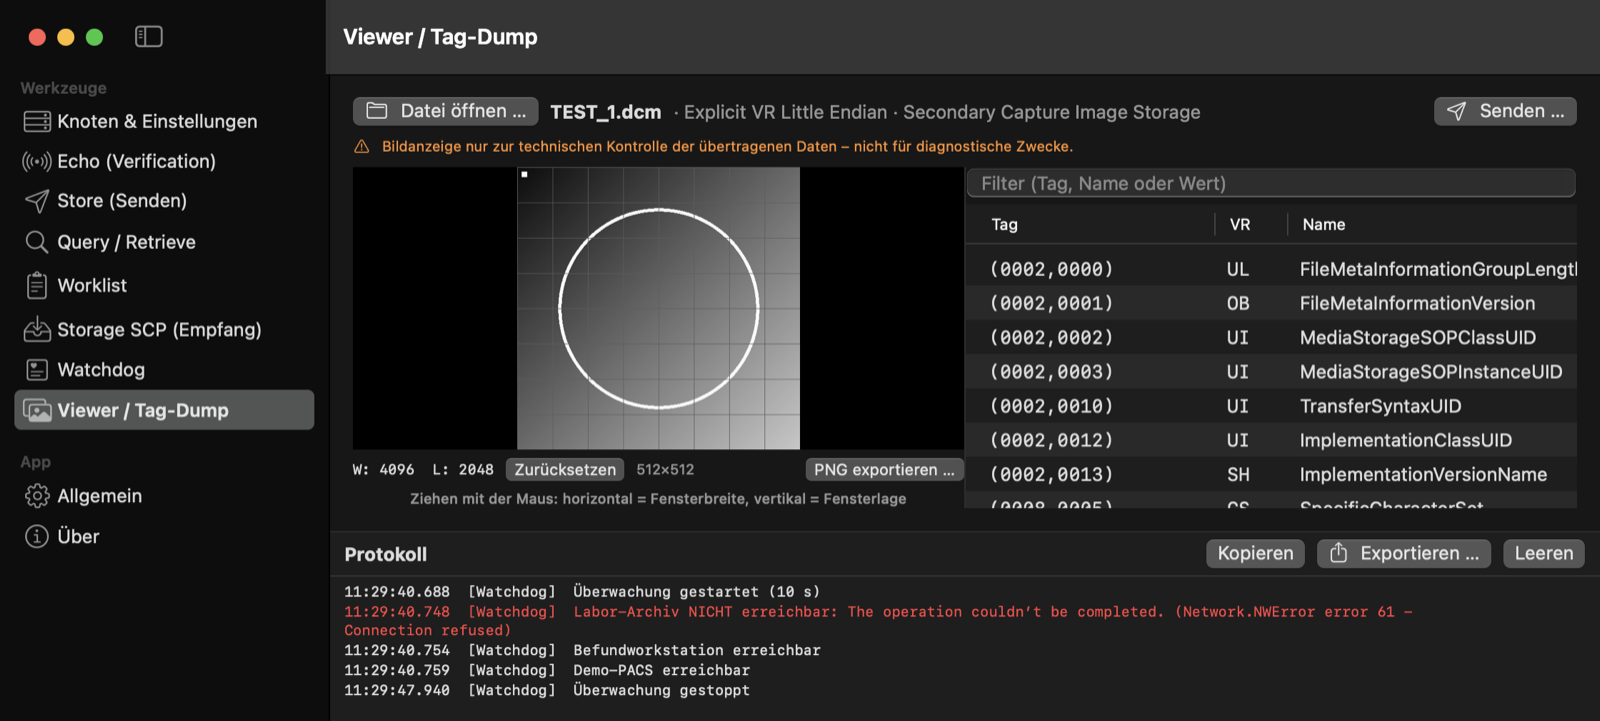
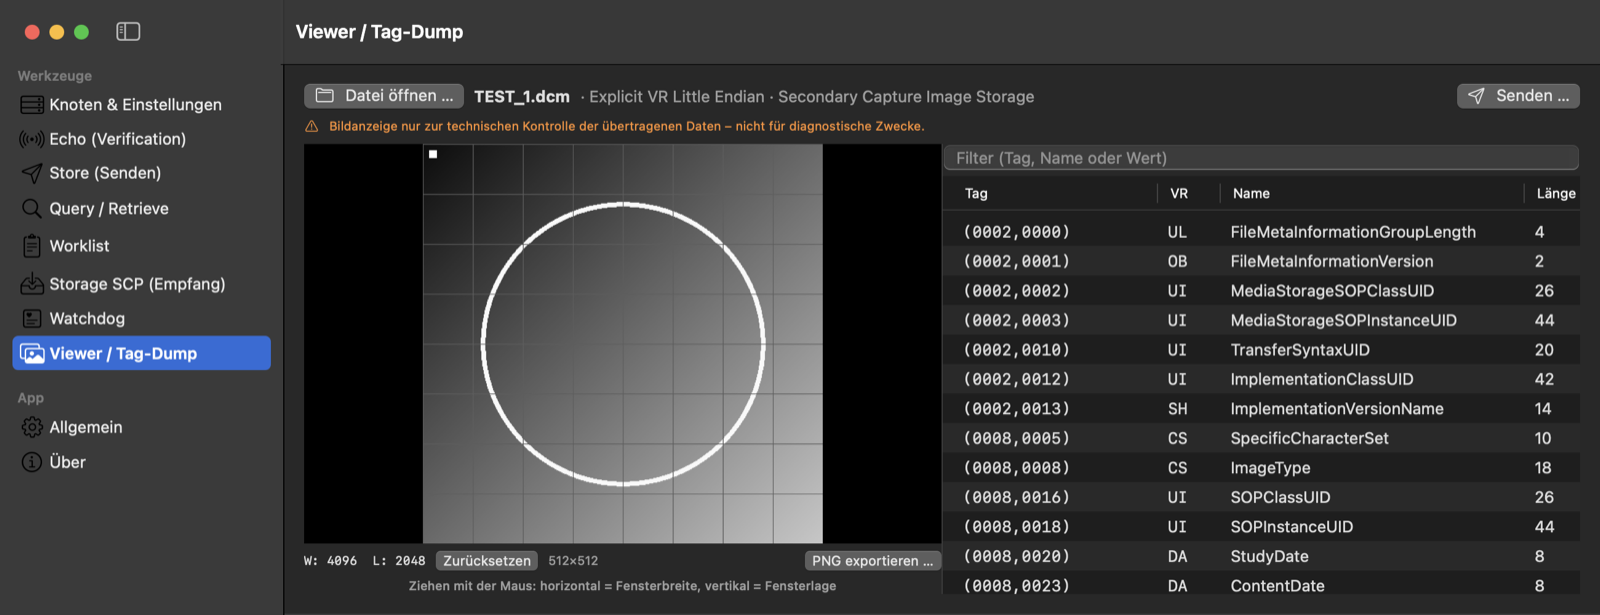
Website: four screenshots (Store, Worklist, Watchdog, Viewer) in macOS dark mode
Snapshot hook can now capture the Store and Worklist views, choose the
theme and appearance, and keeps the Watchdog running until captured.
Worklist entries in the screenshot are made-up demo data.

diff --git a/Sources/DICOMTestTool/SnapshotHook.swift b/Sources/DICOMTestTool/SnapshotHook.swift
@@ -1,45 +1,118 @@
 import AppKit
 import SwiftUI
+import DicomCore
 
 /// Test hook for website screenshots: renders the main window into PNG files without needing
 /// screen-recording permission. Only active when DICOMTESTTOOL_SNAPSHOT=<output folder> is set.
-/// Optional DICOMTESTTOOL_SNAPSHOT_FILE=<DICOM file> is opened in the viewer.
+/// DICOMTESTTOOL_SNAPSHOT_SHOTS lists the shots (default: watchdog,viewer; also store, worklist).
+/// DICOMTESTTOOL_SNAPSHOT_FILE=<DICOM file> is opened in the viewer.
+/// Worklist entries are fictitious demo data, injected directly into the table.
 @MainActor
 enum SnapshotHook {
+    static let storeSend = Notification.Name("SnapshotHook.storeSend")
+    static let worklistRows = Notification.Name("SnapshotHook.worklistRows")
+
     static func runIfRequested(_ state: AppState) {
         let env = ProcessInfo.processInfo.environment
         guard let dir = env["DICOMTESTTOOL_SNAPSHOT"] else { return }
         let out = URL(fileURLWithPath: dir, isDirectory: true)
         let file = env["DICOMTESTTOOL_SNAPSHOT_FILE"].map { URL(fileURLWithPath: $0) }
+        let shots = (env["DICOMTESTTOOL_SNAPSHOT_SHOTS"] ?? "watchdog,viewer").split(separator: ",").map(String.init)
         Task { @MainActor in
             try? await Task.sleep(for: .seconds(2))
-            UserDefaults.standard.set(AppTheme.standard.rawValue, forKey: AppTheme.storageKey)
-            AppTheme.standard.applyToApp()
-            NSApp.appearance = NSAppearance(named: .aqua)
-            mainWindow?.appearance = NSAppearance(named: .aqua)
+            let theme = AppTheme(rawValue: env["DICOMTESTTOOL_SNAPSHOT_THEME"] ?? "") ?? .clinicalDark
+            UserDefaults.standard.set(theme.rawValue, forKey: AppTheme.storageKey)
+            try? await Task.sleep(for: .milliseconds(500))
+            // Standard follows the system; DICOMTESTTOOL_SNAPSHOT_APPEARANCE=light|dark forces one look.
+            let dark = theme == .clinicalDark || env["DICOMTESTTOOL_SNAPSHOT_APPEARANCE"] != "light"
+            NSApp.appearance = NSAppearance(named: dark ? .darkAqua : .aqua)
             state.notificationsEnabled = false
-            if let w = mainWindow { w.setContentSize(NSSize(width: 1120, height: 700)); w.center() }
-            state.log.removeAll()
-            state.watchNodeIDs = Set(state.nodes.map(\.id))
-            state.watchInterval = 10
-            state.section = .watchdog
-            state.startWatchdog()
-            try? await Task.sleep(for: .seconds(6))
-            state.log.removeAll { $0.text.contains("Mitteilung") }
-            try? await Task.sleep(for: .seconds(1))
-            capture(out.appendingPathComponent("watchdog.png"))
-
-            state.stopWatchdog()
-            UserDefaults.standard.set(AppTheme.clinicalDark.rawValue, forKey: AppTheme.storageKey)
-            AppTheme.clinicalDark.applyToApp()
-            mainWindow?.appearance = NSAppearance(named: .darkAqua)
-            state.section = .viewer
-            try? await Task.sleep(for: .seconds(1))
-            if let file { state.viewerURL = file }
-            try? await Task.sleep(for: .seconds(3))
-            capture(out.appendingPathComponent("viewer.png"))
+            if let w = mainWindow, let screen = w.screen?.visibleFrame {
+                let size = NSSize(width: min(1300, screen.width), height: min(900, screen.height))
+                w.setFrame(NSRect(x: screen.midX - size.width / 2, y: screen.midY - size.height / 2, width: size.width, height: size.height), display: true)
+            }
+            for shot in shots {
+                state.log.removeAll()
+                switch shot {
+                case "watchdog": await watchdog(state)
+                case "viewer": await viewer(state, file: file)
+                case "store": await store(state)
+                case "worklist": await worklist(state)
+                default: continue
+                }
+                state.log.removeAll { $0.text.contains("Mitteilung") }
+                try? await Task.sleep(for: .seconds(1))
+                capture(out.appendingPathComponent("\(shot).png"))
+                if state.watchRunning { state.stopWatchdog() }
+            }
             NSApp.terminate(nil)
         }
+    }
+
+    private static func watchdog(_ state: AppState) async {
+        state.watchNodeIDs = Set(state.nodes.map(\.id))
+        state.watchInterval = 10
+        state.section = .watchdog
+        state.startWatchdog()
+        try? await Task.sleep(for: .seconds(5))
+    }
+
+    private static func viewer(_ state: AppState, file: URL?) async {
+        state.section = .viewer
+        try? await Task.sleep(for: .seconds(1))
+        if let file { state.viewerURL = file }
+        try? await Task.sleep(for: .seconds(2))
+    }
+
+    private static func store(_ state: AppState) async {
+        var o = TestImageOptions()
+        o.patientName = "MUSTERMANN^ERIKA"
+        o.patientID = "DEMO0042"
+        o.birthDate = "19820314"
+        o.sex = "F"
+        o.accessionNumber = "ACC260042"
+        o.count = 8
+        let dir = URL(fileURLWithPath: "/tmp/DICOM-Testbilder", isDirectory: true)
+        try? FileManager.default.removeItem(at: dir)
+        if let urls = try? TestImageGenerator.generate(o, into: dir) {
+            state.append("Store", "\(urls.count) Testbild(er) erzeugt")
+            state.storeQueue = urls
+        }
+        state.selectedNodeID = state.nodes.first?.id
+        state.section = .store
+        try? await Task.sleep(for: .seconds(1))
+        NotificationCenter.default.post(name: storeSend, object: nil)
+        try? await Task.sleep(for: .seconds(4))
+    }
+
+    private static func worklist(_ state: AppState) async {
+        state.selectedNodeID = state.nodes.first { $0.name.contains("RIS") }?.id ?? state.nodes.first?.id
+        state.section = .worklist
+        try? await Task.sleep(for: .seconds(1))
+        let f = DateFormatter()
+        f.locale = Locale(identifier: "en_US_POSIX")
+        f.dateFormat = "yyyyMMdd"
+        let today = f.string(from: Date())
+        let entries: [[String]] = [
+            ["MUSTERMANN^ERIKA", "DEMO0042", "19820314", "F", "ACC260042", "Thorax p.a. und seitlich", "CR", "080000", "CR_RAUM1"],
+            ["BEISPIEL^JONAS", "DEMO0043", "19750921", "M", "ACC260043", "Kniegelenk links in 2 Ebenen", "CR", "083000", "CR_RAUM1"],
+            ["TESTFALL^LENA", "DEMO0044", "19910602", "F", "ACC260044", "CT Schädel nativ", "CT", "090000", "CT_SCANNER"],
+            ["PROBE^MAX", "DEMO0045", "19680117", "M", "ACC260045", "MRT LWS", "MR", "094500", "MR_1_5T"],
+            ["MUSTERFRAU^ANNA", "DEMO0046", "20010830", "F", "ACC260046", "Sonographie Abdomen", "US", "103000", "US_RAUM3"],
+            ["DEMO^PAUL", "DEMO0047", "19590405", "M", "ACC260047", "CT Thorax mit KM", "CT", "111500", "CT_SCANNER"],
+        ]
+        let datasets: [DataSet] = entries.map { e in
+            var ds = DataSet()
+            ds.set(.patientName, e[0]); ds.set(.patientID, e[1]); ds.set(.patientBirthDate, e[2]); ds.set(.patientSex, e[3])
+            ds.set(.accessionNumber, e[4]); ds.set(.requestedProcedureDescription, e[5])
+            var sps = DataSet()
+            sps.set(.modality, e[6]); sps.set(.scheduledProcedureStepStartDate, today); sps.set(.scheduledProcedureStepStartTime, e[7])
+            sps.set(.scheduledStationAETitle, e[8])
+            ds.setSequence(.scheduledProcedureStepSequence, [sps])
+            return ds
+        }
+        NotificationCenter.default.post(name: worklistRows, object: datasets)
+        try? await Task.sleep(for: .seconds(1))
     }
 
     private static var mainWindow: NSWindow? {

diff --git a/docs/de/index.html b/docs/de/index.html
@@ -107,14 +107,22 @@
     <section id="screenshots">
       <div class="wrap">
         <h2>So sieht die App aus</h2>
-        <p class="sub">Aufnahmen mit Demo-Knoten und einem generierten Testbild, ohne echte Patientendaten.</p>
+        <p class="sub">Aufnahmen mit Demo-Knoten, generierten Testbildern und erfundenen Worklist-Einträgen – ohne echte Patientendaten.</p>
         <div class="shots">
           <figure style="margin:0">
-            <img src="../screenshots/watchdog.png" width="1600" height="721" loading="lazy" style="display:block;max-width:100%;height:auto;margin:0 auto" alt="Watchdog-Ansicht: zwei Knoten erreichbar, ein Knoten mit Ausfall, darunter das Protokoll">
+            <img src="../screenshots/store.png?v=2" width="1600" height="935" loading="lazy" style="display:block;max-width:100%;height:auto;margin:0 auto" alt="C-Store-Ansicht: acht Testbilder erfolgreich an ein Demo-PACS gesendet, darunter das Protokoll">
+            <figcaption><strong>Store:</strong> Dateien, Ordner oder erzeugte Testbilder senden – mit Status pro Datei und vollständigem Protokoll.</figcaption>
+          </figure>
+          <figure style="margin:0">
+            <img src="../screenshots/worklist.png?v=2" width="1600" height="615" loading="lazy" style="display:block;max-width:100%;height:auto;margin:0 auto" alt="Modality-Worklist-Ansicht mit sechs geplanten Demo-Untersuchungen">
+            <figcaption><strong>Worklist:</strong> geplante Untersuchungen abfragen, wie es eine Modalität tun würde (Demo-Einträge).</figcaption>
+          </figure>
+          <figure style="margin:0">
+            <img src="../screenshots/watchdog.png?v=2" width="1600" height="769" loading="lazy" style="display:block;max-width:100%;height:auto;margin:0 auto" alt="Watchdog-Ansicht: zwei Knoten erreichbar, zwei Knoten mit Ausfall, darunter das Protokoll">
             <figcaption><strong>Watchdog:</strong> Knoten werden laufend per C-ECHO geprüft, Ausfälle sofort sichtbar.</figcaption>
           </figure>
           <figure style="margin:0">
-            <img src="../screenshots/viewer.png" width="1600" height="721" loading="lazy" style="display:block;max-width:100%;height:auto;margin:0 auto" alt="Viewer / Tag-Dump mit Testbild und Tag-Liste im dunklen Farbschema">
+            <img src="../screenshots/viewer.png?v=2" width="1600" height="615" loading="lazy" style="display:block;max-width:100%;height:auto;margin:0 auto" alt="Viewer / Tag-Dump mit Testbild und Tag-Liste">
             <figcaption><strong>Viewer / Tag-Dump:</strong> Bild mit Fensterung und alle Tags – nur zur technischen Kontrolle.</figcaption>
           </figure>
         </div>

diff --git a/docs/index.html b/docs/index.html
@@ -106,14 +106,22 @@
     <section id="screenshots">
       <div class="wrap">
         <h2>What it looks like</h2>
-        <p class="sub">Captured with demo nodes and a generated test image – no real patient data.</p>
+        <p class="sub">Captured with demo nodes, generated test images and made-up worklist entries – no real patient data.</p>
         <div class="shots">
           <figure style="margin:0">
-            <img src="screenshots/watchdog.png" width="1600" height="721" loading="lazy" style="display:block;max-width:100%;height:auto;margin:0 auto" alt="Watchdog view: two nodes reachable, one node down, protocol log below">
+            <img src="screenshots/store.png?v=2" width="1600" height="935" loading="lazy" style="display:block;max-width:100%;height:auto;margin:0 auto" alt="C-STORE view: eight test images sent successfully to a demo PACS, with the protocol log below">
+            <figcaption><strong>Store:</strong> send files, folders or generated test images – with a status per file and a full protocol log.</figcaption>
+          </figure>
+          <figure style="margin:0">
+            <img src="screenshots/worklist.png?v=2" width="1600" height="615" loading="lazy" style="display:block;max-width:100%;height:auto;margin:0 auto" alt="Modality worklist view with six scheduled demo procedures">
+            <figcaption><strong>Worklist:</strong> query scheduled procedures just like a modality would (demo entries).</figcaption>
+          </figure>
+          <figure style="margin:0">
+            <img src="screenshots/watchdog.png?v=2" width="1600" height="769" loading="lazy" style="display:block;max-width:100%;height:auto;margin:0 auto" alt="Watchdog view: two nodes reachable, two nodes down, protocol log below">
             <figcaption><strong>Watchdog:</strong> nodes are checked continuously with C-ECHO, failures show up immediately.</figcaption>
           </figure>
           <figure style="margin:0">
-            <img src="screenshots/viewer.png" width="1600" height="721" loading="lazy" style="display:block;max-width:100%;height:auto;margin:0 auto" alt="Viewer and tag dump with a test image and tag list in the dark colour scheme">
+            <img src="screenshots/viewer.png?v=2" width="1600" height="615" loading="lazy" style="display:block;max-width:100%;height:auto;margin:0 auto" alt="Viewer and tag dump with a test image and tag list">
             <figcaption><strong>Viewer / tag dump:</strong> image with windowing and every tag – for technical checks only.</figcaption>
           </figure>
         </div>

diff --git a/Sources/DICOMTestTool/QueryViews.swift b/Sources/DICOMTestTool/QueryViews.swift
@@ -312,6 +312,9 @@ struct WorklistView: View {
         }
         .padding()
         .sheet(item: $detail) { r in DatasetDumpView(dataset: r.dataset, title: "Worklist-Eintrag") }
+        .onReceive(NotificationCenter.default.publisher(for: SnapshotHook.worklistRows)) { n in // screenshot hook
+            rows = (n.object as? [DataSet] ?? []).map(WorklistRow.init(dataset:))
+        }
     }
 
     private func query() {

diff --git a/Sources/DICOMTestTool/SCUViews.swift b/Sources/DICOMTestTool/SCUViews.swift
@@ -206,6 +206,7 @@ struct StoreView: View {
         .onAppear {
             if !state.storeQueue.isEmpty { add(state.storeQueue); state.storeQueue = [] }
         }
+        .onReceive(NotificationCenter.default.publisher(for: SnapshotHook.storeSend)) { _ in send() } // screenshot hook
     }
 
     private func add(_ urls: [URL]) {
